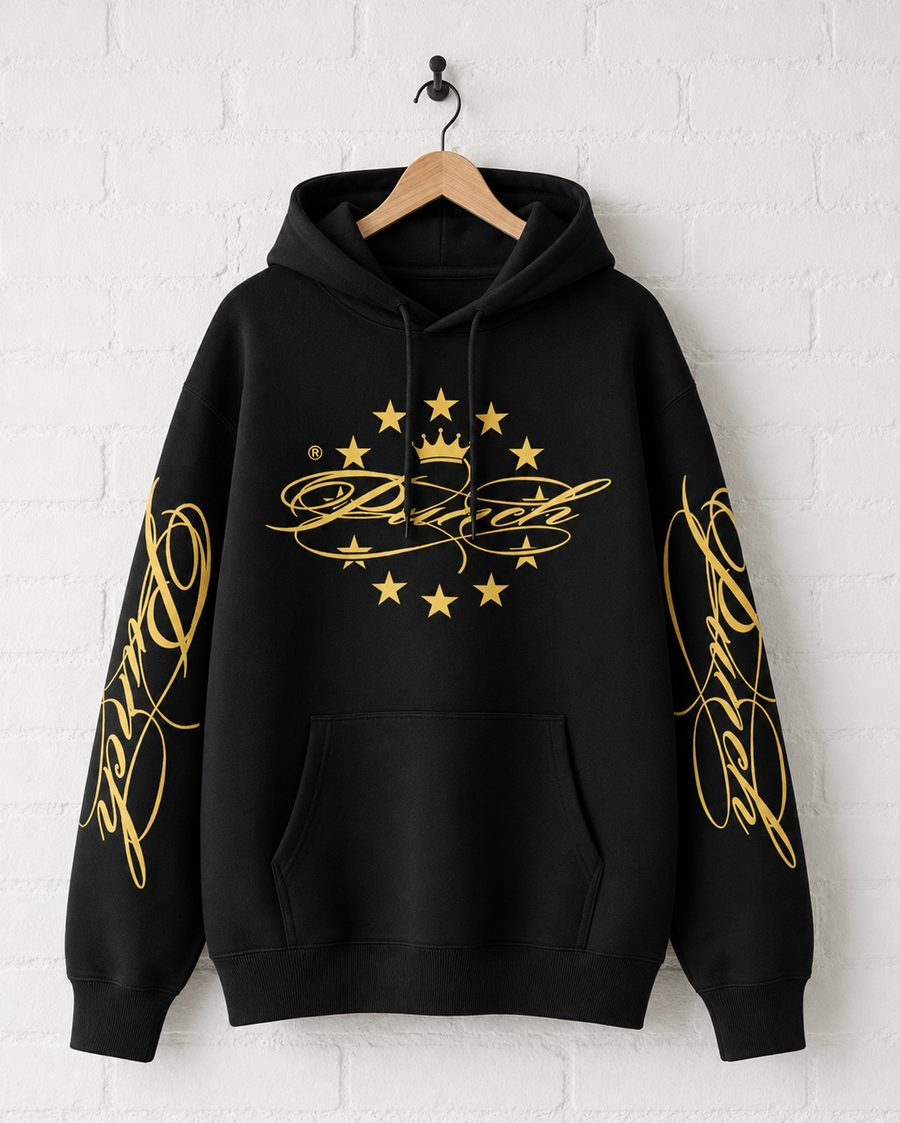
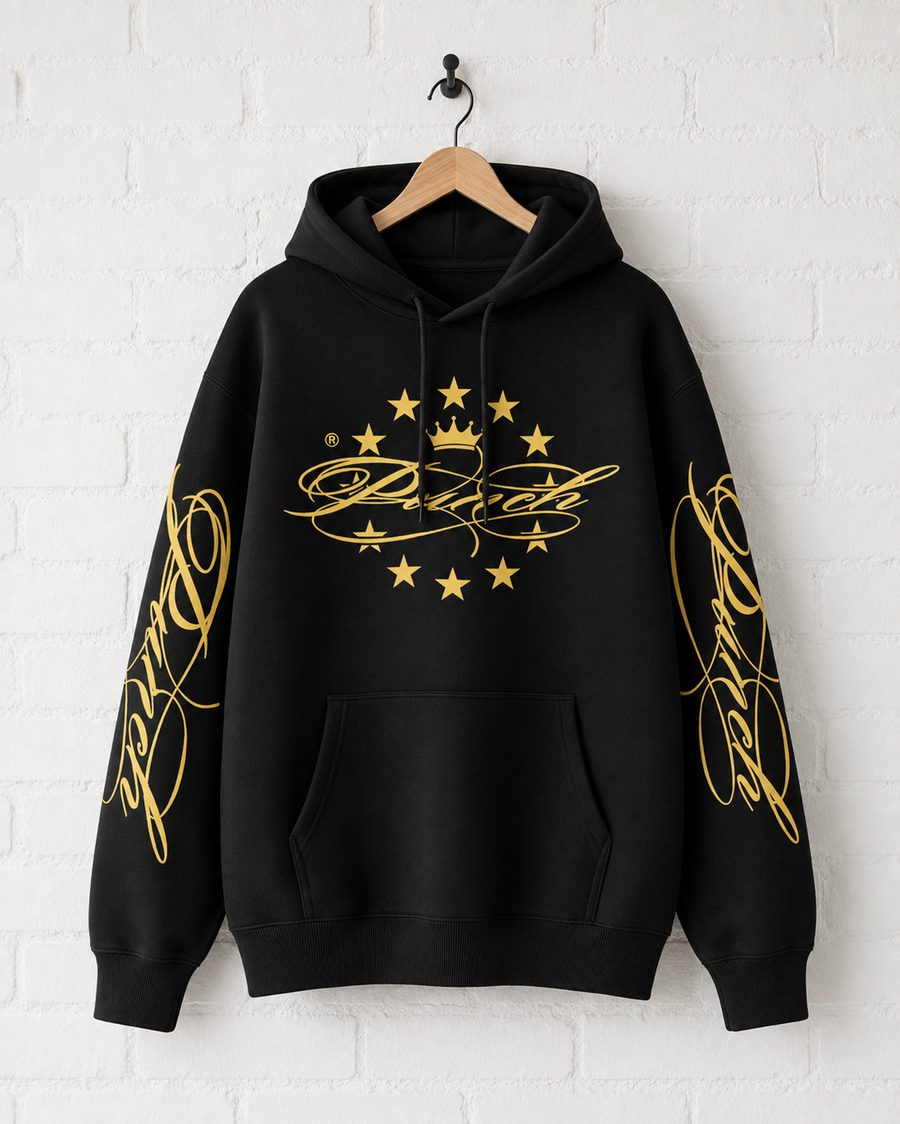
Clickable color dots swap card cover; uniform hanger headroom across photos
Claude-Session: https://claude.ai/code/session_01FW5qG2Jvj5yLosdaSuUqX3

diff --git a/lojadapunch/index.html b/lojadapunch/index.html
@@ -126,8 +126,9 @@
   .card .name{font-size:13px;font-weight:600;line-height:1.3;min-height:34px}
   .card .price{color:var(--white);font-weight:700;font-size:15px;margin-top:4px}
   .card .inst{color:var(--muted);font-size:11px}
-  .dots{display:flex;gap:5px;margin-top:7px}
-  .dot{width:12px;height:12px;border-radius:50%;border:1.5px solid rgba(255,255,255,.35)}
+  .dots{display:flex;gap:7px;margin-top:8px}
+  .dot{width:15px;height:15px;border-radius:50%;border:1.5px solid rgba(255,255,255,.35);padding:0;cursor:pointer}
+  .dot.sel{border-color:var(--cyan);box-shadow:0 0 0 2px rgba(0,255,255,.3)}
 
   /* ---------- product view ---------- */
   .pv{position:fixed;inset:0;z-index:60;background:var(--navy);overflow-y:auto;overscroll-behavior:contain;transform:translateX(100%);transition:transform .28s cubic-bezier(.32,.72,.35,1);visibility:hidden}
@@ -397,17 +398,38 @@ function renderGrid(){
         <div class="name">${p.name}</div>
         <div class="price">${brl(p.price)}</div>
         <div class="inst">${inst(p.price)}</div>
-        ${p.variants.length>1?`<div class="dots">${p.variants.map(v=>`<span class="dot" style="background:${v.hex}"></span>`).join("")}</div>`:""}
+        ${p.variants.length>1?`<div class="dots" id="vdots-${p.id}">${p.variants.map((v,vi)=>`<button class="dot ${vi===varOfIdx(p,i)?'sel':''}" style="background:${v.hex}" onclick="pickColor(event,'${p.id}',${vi})" aria-label="Cor ${v.name}"></button>`).join("")}</div>`:""}
       </div>
     </div>`}).join("");
+}
+function varOfIdx(p, i){
+  // qual variante corresponde à foto de índice i no carrossel do card
+  let vi = 0;
+  for(let k=0;k<p.variants.length;k++){
+    if(i < p.variants[k].imgs.length) return k;
+    i -= p.variants[k].imgs.length;
+  }
+  return vi;
+}
+function syncCard(id, i){
+  const p = P.find(x=>x.id===id);
+  cardIdx[id] = i;
+  $("cimg-"+id).src = allImgs(p)[i];
+  [...$("cdots-"+id).children].forEach((el,j)=>el.classList.toggle("on", j===i));
+  const vd = $("vdots-"+id);
+  if(vd){ const vi = varOfIdx(p, i); [...vd.children].forEach((el,j)=>el.classList.toggle("sel", j===vi)); }
 }
 function cardNav(e, id, d){
   e.stopPropagation();
   const p = P.find(x=>x.id===id), imgs = allImgs(p);
-  const i = ((cardIdx[id]||0) + d + imgs.length) % imgs.length;
-  cardIdx[id] = i;
-  $("cimg-"+id).src = imgs[i];
-  [...$("cdots-"+id).children].forEach((el,j)=>el.classList.toggle("on", j===i));
+  syncCard(id, ((cardIdx[id]||0) + d + imgs.length) % imgs.length);
+}
+function pickColor(e, id, vi){
+  e.stopPropagation();
+  const p = P.find(x=>x.id===id);
+  let off = 0;
+  for(let k=0;k<vi;k++) off += p.variants[k].imgs.length;
+  syncCard(id, off);
 }
 function openFromCard(id){
   // abre o produto já na cor da foto que está aparecendo no card
